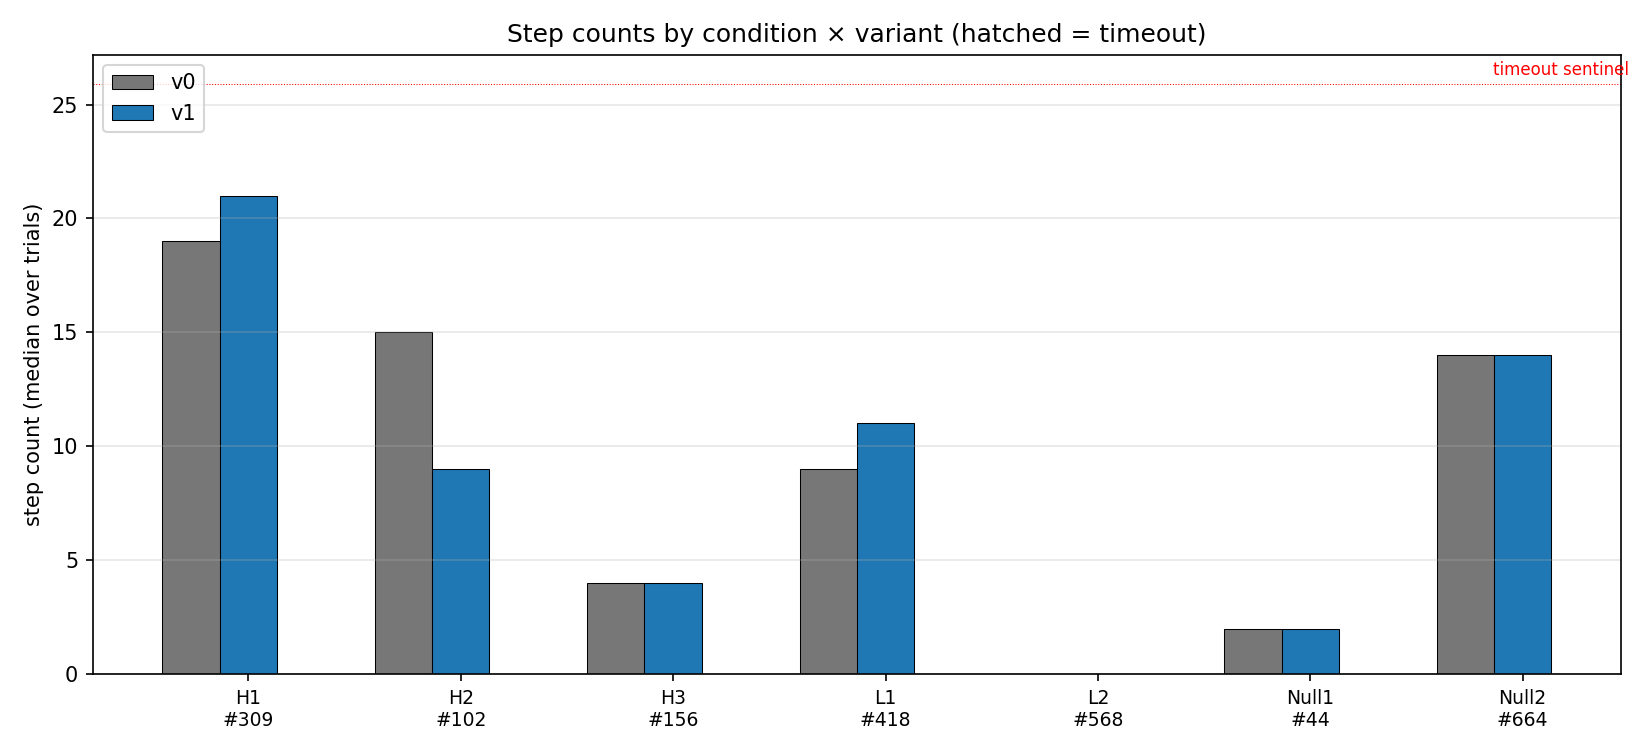
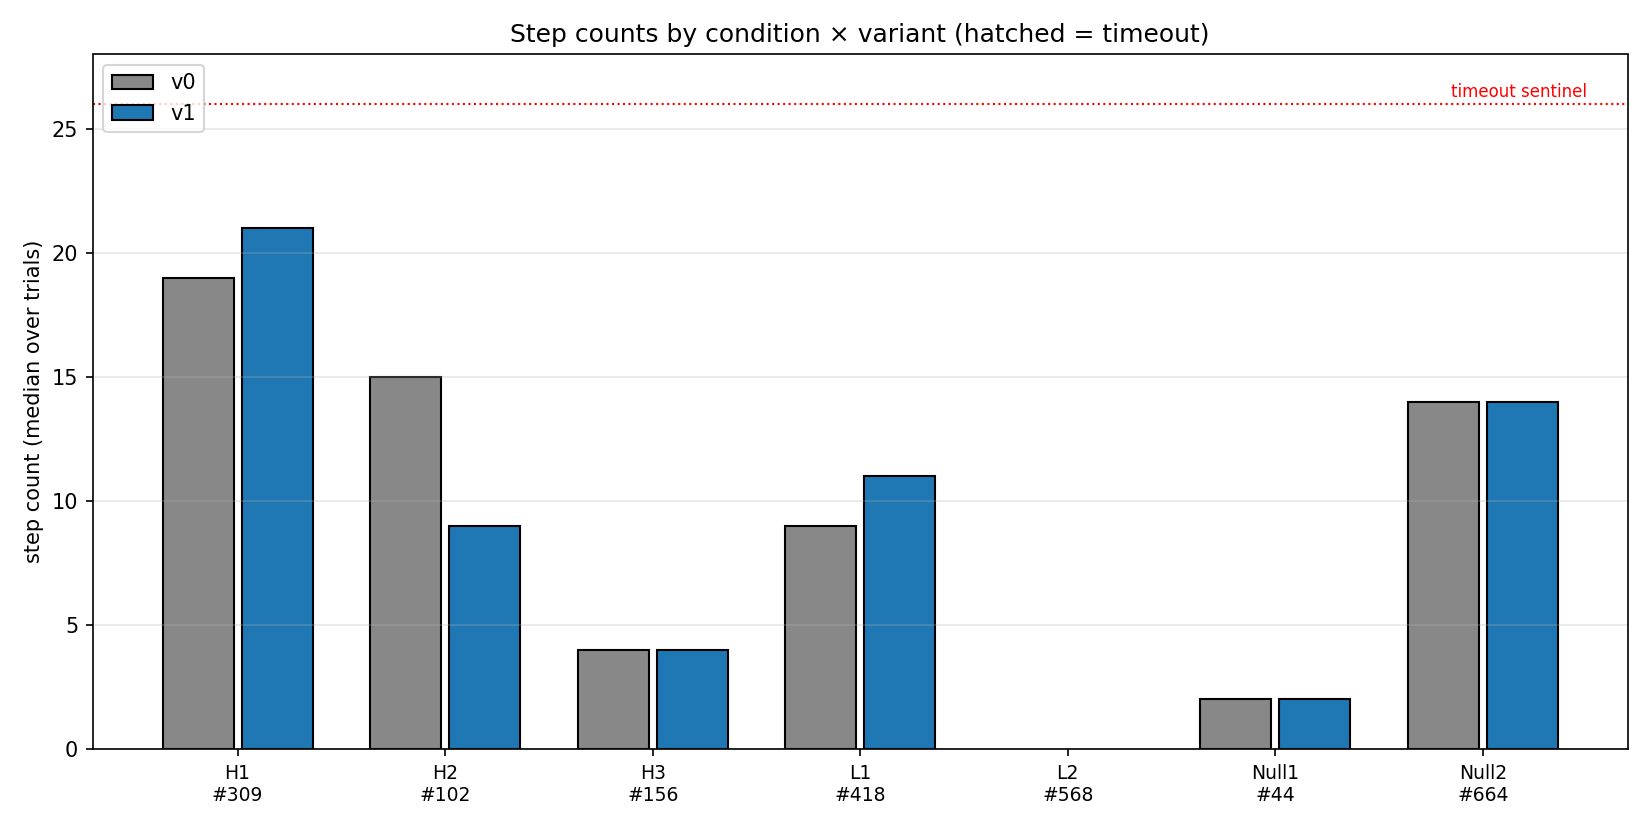
chore(eval): step_counts.png 재현 함수 추가

diff --git a/scripts/eval/render_figures.py b/scripts/eval/render_figures.py
@@ -4,6 +4,7 @@ Inputs: <root>/cells.json (produced by aggregate_cells.py)
 Outputs:
     <root>/step_table.md            — per-task step statistics table
     <root>/figures/step_box.png     — per-trial step box plot
+    <root>/figures/step_counts.png  — per-condition median step bar chart
 """
 from __future__ import annotations
 
@@ -102,6 +103,77 @@ def render_step_box_plot(cells: dict, out_path: Path) -> None:
     print(f"[ok] {out_path}")
 
 
+def render_step_counts(cells: dict, out_path: Path) -> None:
+    """Per-condition median-step bar chart: v0 (gray) vs v1 (blue).
+
+    Bar height = median over valid (non-None) trials, matching the `중앙값`
+    column of render_step_table. A cell whose trials are all timeouts draws a
+    hatched bar at a red sentinel height; other no-data cells (error / mixed)
+    draw no bar. Reverse-engineered to reproduce the committed step_counts.png
+    (no generating script was kept).
+    """
+    import statistics
+
+    try:
+        import matplotlib.pyplot as plt
+        from matplotlib.patches import Patch
+    except ImportError:
+        print("[warn] matplotlib not installed; skipping step counts", file=sys.stderr)
+        return
+    conditions = list(CONDITION_TO_TASK.keys())
+    task_ids = [CONDITION_TO_TASK[c] for c in conditions]
+    labels = [f"{c}\n#{tid}" for c, tid in zip(conditions, task_ids)]
+    width = 0.38
+
+    medians: dict[tuple[int, str], float] = {}
+    timeouts: set[tuple[int, str]] = set()
+    for tid in task_ids:
+        for variant in VARIANTS:
+            cell = cells.get(f"{tid}__{variant}") or {}
+            step = cell.get("step") or {}
+            raw = step.get("raw") or []
+            valid = [v for v in raw if v is not None]
+            if valid:
+                medians[(tid, variant)] = statistics.median(valid)
+            elif raw and (step.get("n_timeout") or 0) >= len(raw):
+                timeouts.add((tid, variant))
+
+    max_med = max(medians.values()) if medians else 20
+    sentinel = max_med + 5
+
+    fig, ax = plt.subplots(figsize=(11, 5.5))
+    for i, tid in enumerate(task_ids):
+        for j, variant in enumerate(VARIANTS):
+            offset = (j - (len(VARIANTS) - 1) / 2) * width
+            x = i + offset
+            color = "#888" if variant == "v0" else "#1f77b4"
+            if (tid, variant) in medians:
+                ax.bar(x, medians[(tid, variant)], width=width * 0.9,
+                       color=color, edgecolor="black")
+            elif (tid, variant) in timeouts:
+                ax.bar(x, sentinel, width=width * 0.9, color=color,
+                       edgecolor="black", hatch="//")
+    ax.axhline(sentinel, color="red", linestyle=":", linewidth=1)
+    ax.text(len(conditions) - 0.5, sentinel + 0.3, "timeout sentinel",
+            ha="right", fontsize=8, color="red")
+    ax.set_xticks(range(len(conditions)))
+    ax.set_xticklabels(labels, fontsize=9)
+    ax.set_ylabel("step count (median over trials)")
+    ax.set_title("Step counts by condition × variant (hatched = timeout)")
+    legend_elements = [
+        Patch(facecolor="#888", edgecolor="black", label="v0"),
+        Patch(facecolor="#1f77b4", edgecolor="black", label="v1"),
+    ]
+    ax.legend(handles=legend_elements, loc="upper left")
+    ax.grid(True, axis="y", alpha=0.3)
+    ax.set_ylim(0, sentinel + 2)
+    plt.tight_layout()
+    out_path.parent.mkdir(parents=True, exist_ok=True)
+    fig.savefig(out_path, dpi=150)
+    plt.close(fig)
+    print(f"[ok] {out_path}")
+
+
 def render_step_table(cells: dict, out_path: Path) -> None:
     """Render per-task step statistics table.
 
@@ -166,6 +238,7 @@ def main(argv: list[str]) -> int:
     out_dir = args.out or args.root
     out_dir.mkdir(parents=True, exist_ok=True)
     render_step_box_plot(cells, out_dir / "figures" / "step_box.png")
+    render_step_counts(cells, out_dir / "figures" / "step_counts.png")
     render_step_table(cells, out_dir / "step_table.md")
     return 0
 
